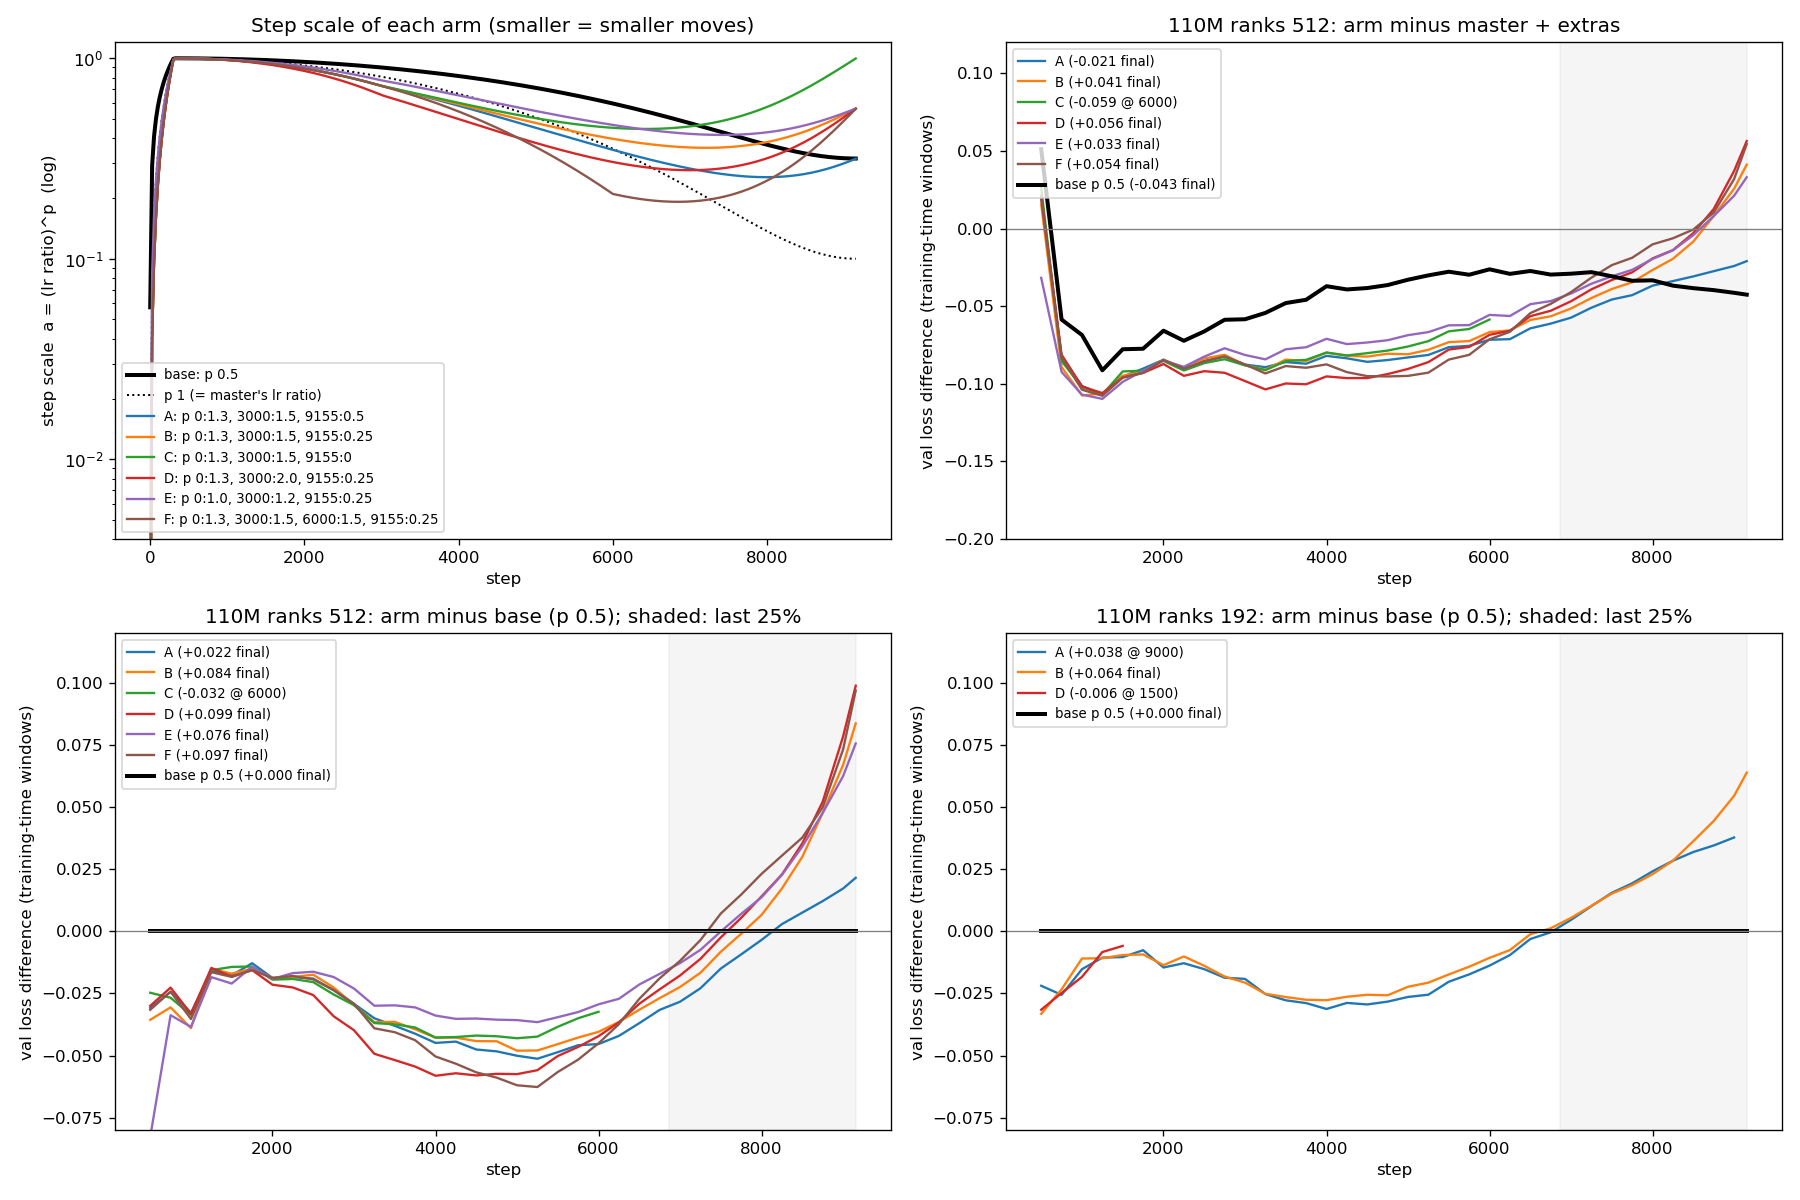
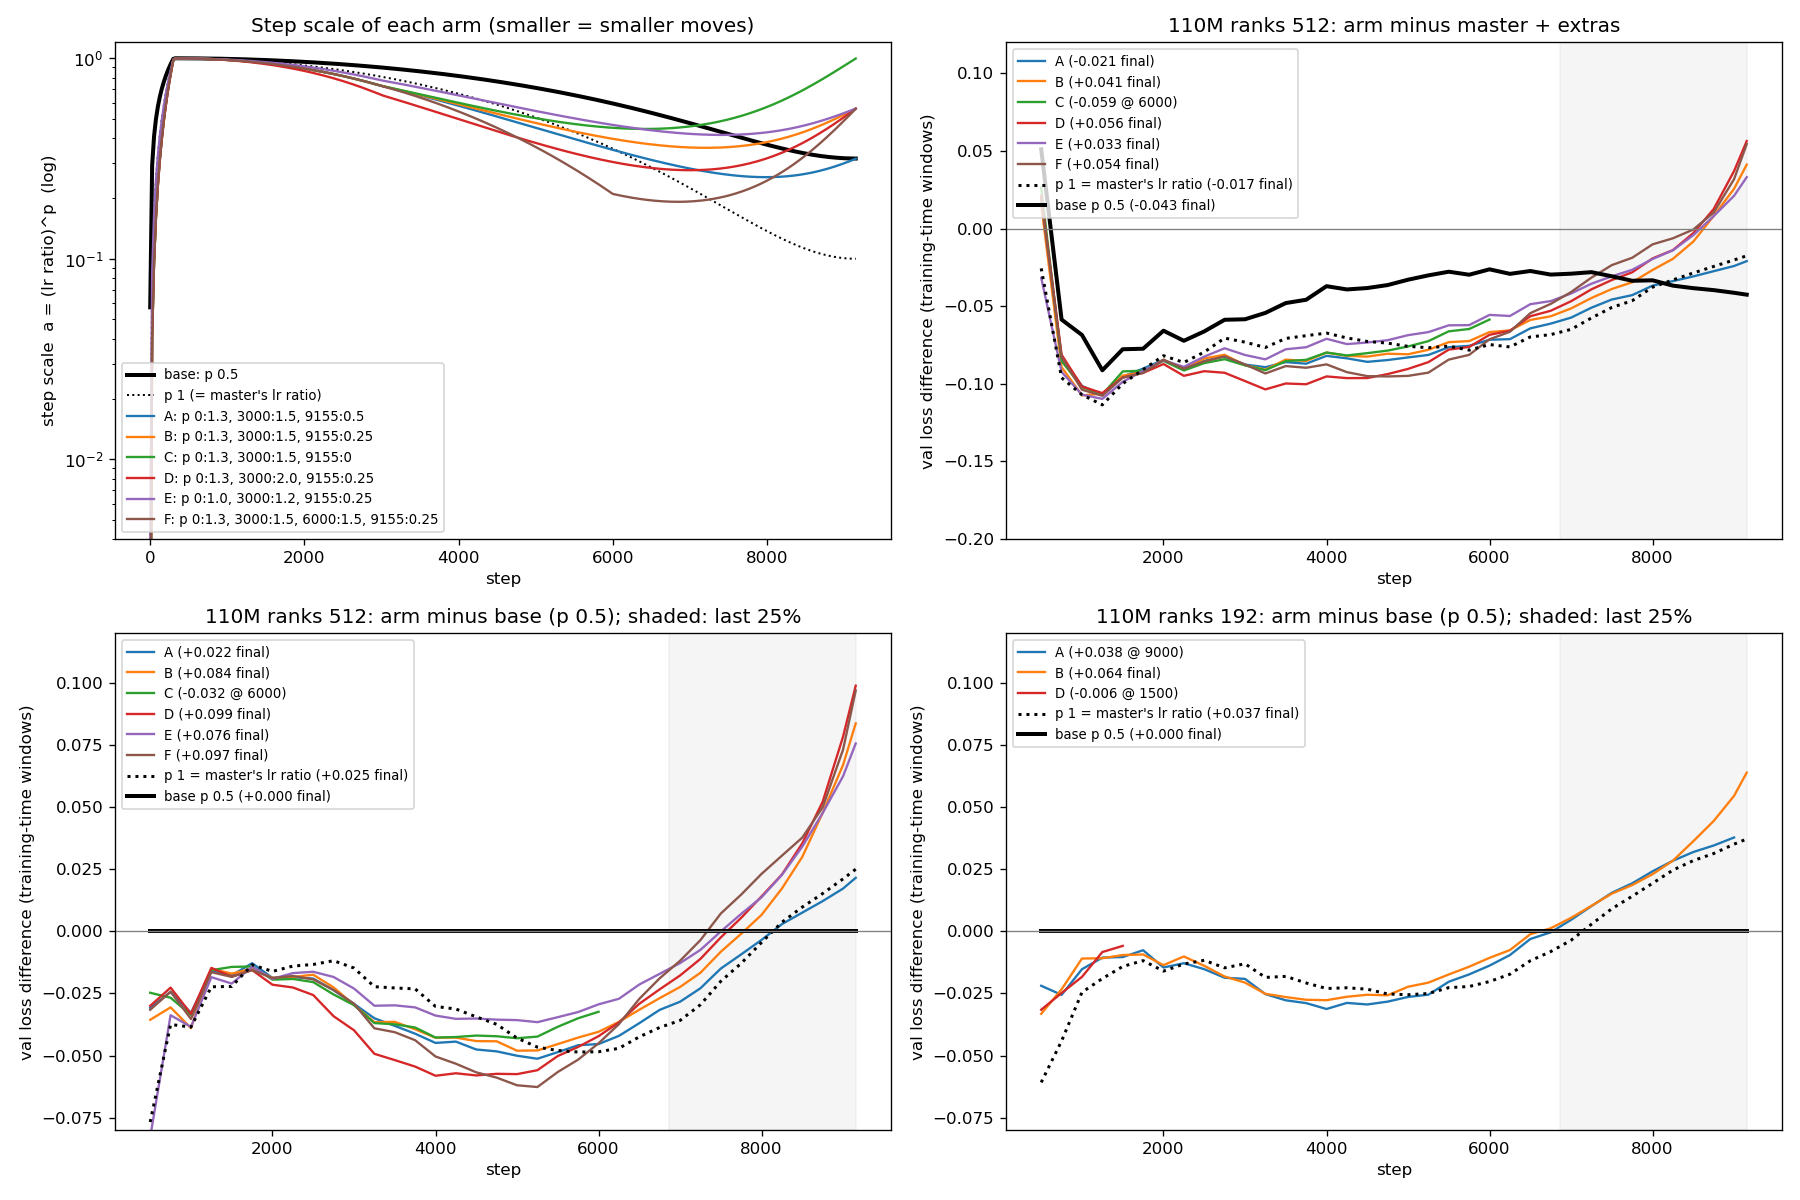
Note and guide: stochastic flip rules, error-feedback invariant, 1.3B finals, schedule rules; p 1 in the piecewise figure

Changed region(s): [[0.56, 0.1233, 0.7156, 0.185], [0.0622, 0.6167, 0.1867, 0.6783], [0.56, 0.5858, 0.7156, 0.6167]]

diff --git a/scripts/plots/plot_pp.py b/scripts/plots/plot_pp.py
@@ -1,6 +1,6 @@
 """110M piecewise-p arms (--ts_anneal_pts, 6 Oct): the step scale each arm uses, and each arm minus the base (p 0.5) and
 minus master + the same extras at each evaluation step (training-time windows).
-    python scripts/plots/plot_pp.py CURVE_DIR      (RUN.jsonl files: sw512_pp_A..F, sw192_pp_*, sw{512,192}_base)
+    python scripts/plots/plot_pp.py CURVE_DIR      (RUN.jsonl files: sw512_pp_A..F, sw192_pp_*, sw{512,192}_base, sw{512,192}_p1)
 Writes docs/figures/pp_oct6.png."""
 import json, math, os, sys
 import matplotlib
@@ -68,6 +68,10 @@ def panel(a, base, ref, title, ylim):
             continue
         fin = " final" if max(v) == T else f" @ {s[-1]}"
         a.plot(s, [v[x] - ref[x] for x in s], "-", color=c, lw=1.4, label=f"{k} ({v[s[-1]] - ref[s[-1]]:+.3f}{fin})")
+    v = get(base + "_p1")
+    s = sorted(x for x in v if x in ref and x >= 500)
+    if s:
+        a.plot(s, [v[x] - ref[x] for x in s], "k:", lw=1.8, label=f"p 1 = master's lr ratio ({v[s[-1]] - ref[s[-1]]:+.3f} final)")
     if ref is not b:
         s = sorted(x for x in b if x in ref and x >= 500)
         a.plot(s, [b[x] - ref[x] for x in s], "k-", lw=2.4, label=f"base p 0.5 ({b[s[-1]] - ref[s[-1]]:+.3f} final)")
